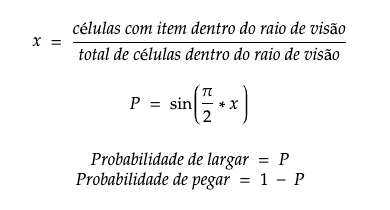
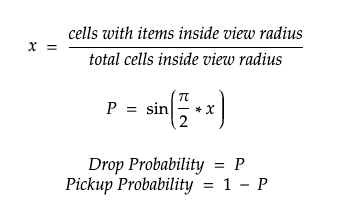
update readme

Changed region(s): [[0.059, 0.0857, 0.9145, 0.3143], [0.177, 0.6857, 0.7965, 0.9143], [0.295, 0.4, 0.6785, 0.6]]

diff --git a/README.md b/README.md
@@ -4,6 +4,20 @@ Simulation of Ant based clustering using Rust and Bevy.
 
 ![showcase.png](assets/img/showcase.png)
 
+## Gifs
+
 ![radius-1.gif](assets/gif/radius_1.gif)
+
 ![radius-2.gif](assets/gif/radius_2.gif)
+
 ![radius-3.gif](assets/gif/radius_3.gif)
+
+## Probability Function
+
+For each entity, the probability to pick up or drop an item is calculated by:
+
+![equation.png](assets/img/equation.png)
+
+The plot bellow exemplifies the relation between the ratio of visible items and the probability
+
+![probability_function.png](assets/img/probability_function.png)

diff --git a/README.pt.md b/README.pt.md
@@ -8,7 +8,7 @@ Simulation of Ant based clustering using Rust and Bevy.
 
 Para cada individuo a probabilidade de pegar ou largar um item foi calculada da seguinte maneira:
 
-![equation.png](assets/img/equation.png)
+![equation.png](assets/img/equation.pt.png)
 
 O gráfico abaixo mostra a relação entre a razão de items visiveis e a probabilidade
 
